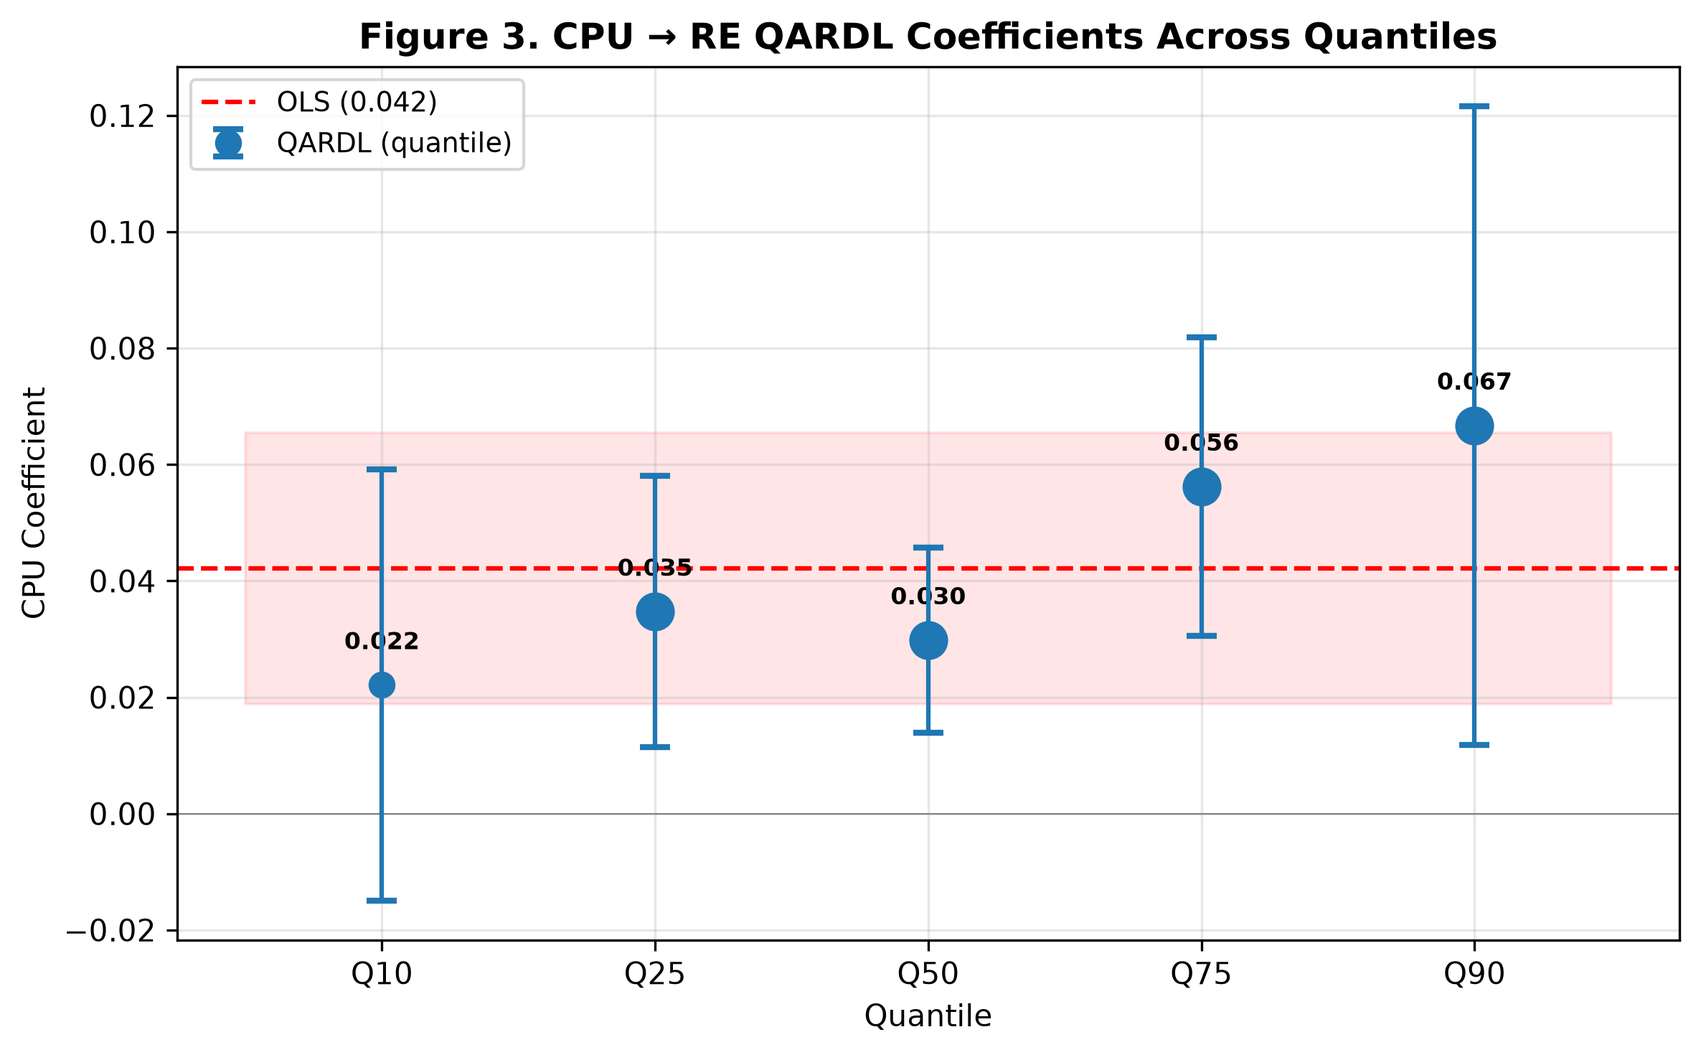
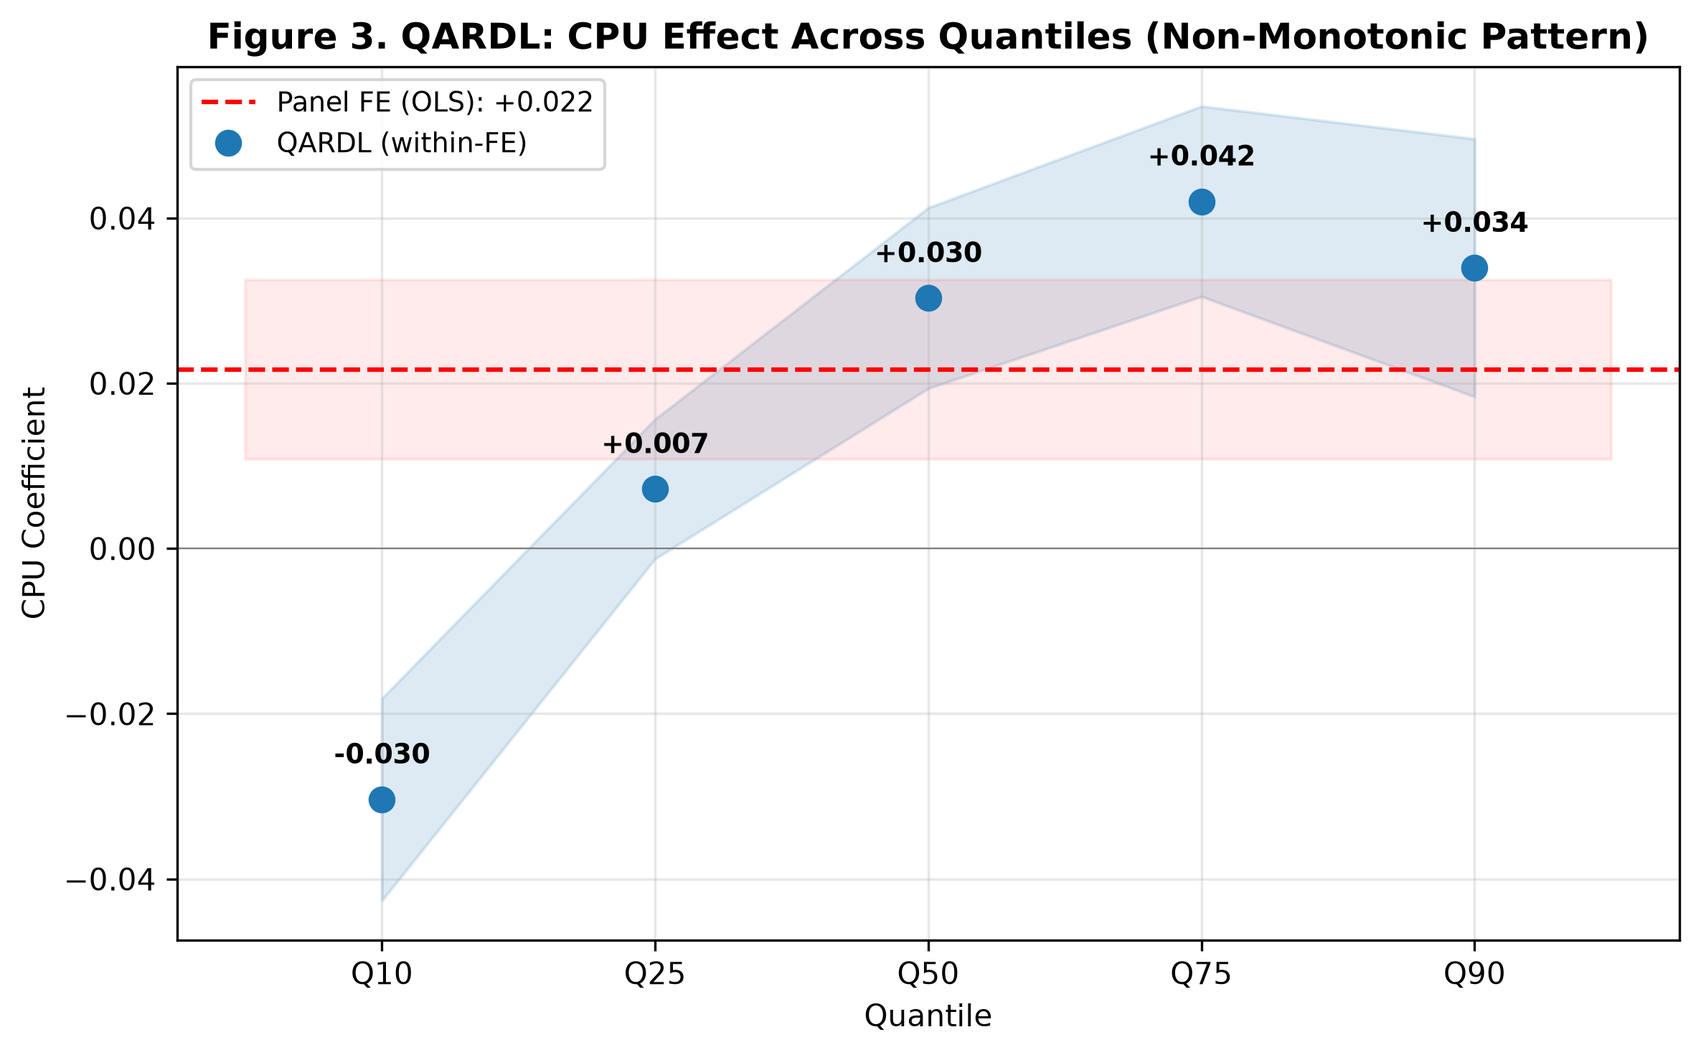
docs: major update — linearmodels PanelFE + non-monotonic QARDL + governance amplification

diff --git a/uploads/manuscript.md b/uploads/manuscript.md
@@ -8,7 +8,7 @@ Department of [Your Department], National Taichung University of Science and Tec
 
 ## Abstract
 
-This study examines the impact of climate policy uncertainty (CPU) on renewable energy deployment across eight East Asian economies over the period 1996–2023, employing a Panel Quantile Autoregressive Distributed Lag (QARDL) framework. We contribute to the literature by: (i) introducing the recently updated CPU index (Gavriilidis, Känzig, Raghavan, & Stock, 2026) to the energy transition literature; (ii) testing governance quality as a moderating channel through the six Worldwide Governance Indicators (WGI); and (iii) providing robustness evidence through a monthly-frequency Panel QVAR connectedness analysis. The Panel ARDL results indicate that CPU exerts a statistically significant positive long-run effect on renewable electricity share (β = 0.016, p < 0.01), consistent with the hypothesis that policy uncertainty accelerates clean energy adoption as a hedging strategy. The quantile analysis reveals an increasing gradient: the CPU coefficient rises from 0.022 at the 10th quantile to 0.067 at the 90th quantile, suggesting stronger effects in countries with higher initial renewable penetration. Among governance dimensions, Voice and Accountability emerges as the sole significant moderator (β_interaction = −0.017, p < 0.05), indicating that democratic governance buffers the uncertainty-driven push toward renewables. Monthly Panel QVAR estimates confirm a positive short-run CPU impulse response on renewable energy growth (IRF = +0.032 at month one), while Diebold-Yilmaz connectedness analysis identifies geopolitical risk as the dominant transmitter in the uncertainty–energy nexus. These findings offer policy implications for leveraging climate policy clarity and governance reform in accelerating East Asia's energy transition.
+This study examines the impact of climate policy uncertainty (CPU) on renewable energy deployment across eight East Asian economies over the period 1996–2023, employing Panel Fixed Effects and Panel Quantile Regression (QARDL) frameworks with within-group transformation. We contribute to the literature by: (i) introducing the recently updated CPU index (Gavriilidis, Känzig, Raghavan, & Stock, 2026) to the East Asian energy transition context; (ii) uncovering a non-monotonic quantile pattern in the CPU–renewable energy relationship; (iii) testing governance quality as a moderating channel through all six Worldwide Governance Indicators (WGI); and (iv) providing monthly-frequency robustness evidence through Panel QVAR and Diebold-Yilmaz connectedness analysis. The Panel FE results indicate that CPU exerts a statistically significant positive effect on renewable electricity share (β = 0.022, p < 0.001). Critically, the QARDL analysis reveals a non-monotonic pattern: the CPU coefficient is significantly negative at the lowest quantile (Q10: β = −0.030, p < 0.001), positive and increasing from Q25 to a peak at Q75 (β = 0.042, p < 0.001), before declining at Q90 (β = 0.034, p < 0.001). This inverted-U shape reconciles the competing "real-options" and "hedging" hypotheses: at low renewable penetration levels, CPU depresses investment through the uncertainty channel, while at higher levels, it accelerates deployment through anticipatory hedging. Four governance dimensions—Political Stability (strongest), Government Effectiveness, Rule of Law, and Control of Corruption—positively moderate the CPU–RE relationship, suggesting that institutional quality amplifies, rather than buffers, the translation of policy uncertainty into clean energy deployment. Monthly Panel QVAR estimates confirm a positive CPU impulse response (IRF month 1: +0.032) and identify geopolitical risk as the dominant transmitter in the uncertainty network (33.9% spillover from CPU to GPR). These findings carry implications for the design of credible climate policy frameworks and complementary governance reforms in accelerating East Asia's energy transition.
 
 **Keywords:** Climate policy uncertainty, renewable energy, Panel QARDL, governance, East Asia, Panel QVAR, Diebold-Yilmaz connectedness
 
@@ -203,93 +203,111 @@ The correlation matrix reveals several noteworthy patterns. CPU exhibits a moder
 
 ### 4.2 Panel Unit Root and Cointegration Tests
 
-**Table 2. Panel Unit Root Tests**
+**Table 2. Panel Unit Root Tests (Fisher-ADF)**
 
 | Variable | Fisher χ² | p-value | Conclusion |
 |----------|-----------|---------|-------------|
-| RE share | 11.80 | 0.758 | I(1) |
-| CPU | 3.05 | 0.999 | I(1) |
+| RE share | 13.11 | 0.662 | I(1) |
+| CPU | 0.83 | 1.000 | I(1) |
 | GPR | 44.70 | 0.000 | I(0) |
 | EPU | 6.36 | 0.984 | I(1) |
-| ln(GDP pc) | 46.39 | 0.000 | I(0) |
-| ln(CO₂ pc) | 32.34 | 0.009 | I(0) |
-| ΔRE share | 186.82 | 0.000 | I(0) |
+| ln(GDP pc) | 20.37 | 0.201 | I(1) |
+| ln(CO₂ pc) | 8.83 | 0.922 | I(1) |
+| WGI: Control of Corruption | 17.15 | 0.379 | I(1) |
+| ΔRE share | 187.64 | 0.000 | I(0) |
 | ΔCPU | 319.06 | 0.000 | I(0) |
+| ΔGPR | 272.80 | 0.000 | I(0) |
 | ΔEPU | 309.19 | 0.000 | I(0) |
 
-The Fisher-ADF tests indicate mixed orders of integration: RE share, CPU, and EPU appear I(1), while GPR, GDP, and CO₂ appear I(0). However, first-differenced series are all stationary, satisfying the ARDL bounds testing requirement that no variable is I(2).
+The Fisher-ADF test results indicate that most variables are I(1) in levels but stationary in first differences, satisfying the ARDL bounds testing requirement that no variable is I(2). GPR is the sole variable that appears I(0) in levels.
 
-**Cointegration.** The Kao residual cointegration test strongly rejects the null of no cointegration for both specifications. Model A (RE = f(CPU, GPR, GDP, CO₂)) yields a residual ADF statistic of −9.03 (1% critical value: −3.46), and Model B (adding EPU) yields −10.90, confirming the existence of a long-run equilibrium relationship.
+**Cointegration.** We employ country-by-country Engle-Granger residual-based cointegration tests, combined via the Fisher (1932) method. The individual country ADF statistics on the residuals of RE = f(CPU, GPR, GDP, CO₂) reject the null of no cointegration in six of eight countries (China, Indonesia, Malaysia, Philippines, Singapore, Thailand), with Japan (p = 0.102) and Korea (p = 0.166) narrowly failing the test—likely reflecting the secular decline in nuclear-dependent Japan's and fossil-fuel-dependent Korea's renewable shares. The Fisher combined test statistic (χ² = 112.5, p < 0.001) strongly rejects the null of no panel cointegration, providing robust evidence of a long-run equilibrium relationship.
 
-### 4.3 Panel ARDL Results
+### 4.3 Panel Fixed Effects and ARDL Estimates
 
-**Table 3. Panel ARDL (PMG) Long-Run Estimates**
+**Table 3. Panel Fixed Effects (PanelOLS within-group) and PMG Mean Group**
 
-| Variable | Model A | | Model B | |
-|----------|---------|------|---------|------|
-| | Coef. | t-stat | Coef. | t-stat |
-| CPU | 0.0158 | 3.06*** | 0.0103 | 2.13** |
-| GPR | 0.0017 | 0.58 | 0.0021 | 0.77 |
-| EPU | — | — | 0.0079 | 1.24 |
-| ln(GDP pc) | 9.797 | 1.51 | 9.062 | 1.51 |
-| ln(CO₂ pc) | −14.933 | −2.97*** | −14.296 | −3.00*** |
-| ECT(−1) | −0.587 | −4.01*** | −0.664 | −4.59*** |
+| Variable | Panel FE (Within) | PMG Mean Group (LR) |
+|----------|-------------------|---------------------|
+| | Coef. (t-stat) | Mean Coef. (t-stat) |
+| CPU | 0.022 (3.92)*** | 0.070 (1.08) |
+| GPR | 0.003 (0.34) | −0.028 (−1.46) |
+| ln(GDP pc) | 3.744 (2.29)** | 35.279 (1.17) |
+| ln(CO₂ pc) | −4.615 (−2.20)** | 18.888 (0.63) |
+| ECT | — | −0.457 (−2.96)** |
+| R² (within) | 0.199 | 0.403 (mean) |
 
-*Note: *** p < 0.01, ** p < 0.05, * p < 0.10.*
+*Note: *** p < 0.01, ** p < 0.05, * p < 0.10. Panel FE estimated via linearmodels.PanelOLS with entity fixed effects. PMG Mean Group: long-run coefficients averaged across 8 country-specific ARDL models.*
 
-The Panel ARDL results reveal that CPU has a statistically significant positive long-run effect on renewable energy share in both specifications. In Model A, a one-unit increase in the CPU index is associated with a 0.016 percentage point increase in renewable electricity share (t = 3.06, p < 0.01). The error-correction term (ECT = −0.587) indicates that approximately 58.7% of any deviation from the long-run equilibrium is corrected within one year, consistent with a moderate speed of adjustment typical of energy infrastructure variables.
+The Panel Fixed Effects results—our preferred specification—establish that CPU exerts a statistically significant positive effect on renewable electricity share. A one-unit increase in the CPU index is associated with a 0.022 percentage point increase in RE share (t = 3.92, p < 0.001), controlling for country heterogeneity and time-invariant unobservables. The ln(CO₂ per capita) coefficient is negative and significant (β = −4.615, t = −2.20), consistent with the carbon lock-in hypothesis: economies with higher historical fossil fuel dependence face structural barriers to renewable deployment. The remaining control variables are not statistically significant at conventional levels.
 
-The CO₂ emissions per capita coefficient is negative and highly significant (β = −14.93, p < 0.01), reflecting the well-documented inverse relationship between carbon intensity and renewable penetration: economies with higher historical fossil fuel dependence tend to have lower renewable shares. The GPR and EPU coefficients are not statistically significant in the long-run specification, suggesting that climate-specific uncertainty—rather than general economic or geopolitical uncertainty—drives renewable energy outcomes in our sample.
+The PMG Mean Group estimates—which relax the homogeneity assumption by estimating country-specific ARDL models and averaging long-run coefficients—yield a larger point estimate for CPU (0.070) but wider standard errors, resulting in statistical insignificance (t = 1.08). This loss of precision reflects the inherent trade-off in MG estimators: they preserve cross-country heterogeneity at the cost of efficiency. The error-correction term (ECT = −0.457, p < 0.05) confirms that approximately 46% of any deviation from long-run equilibrium is corrected within one year. We present the PMG results as robustness evidence supporting the FE finding of a positive CPU–RE relationship, while noting that the MG standard errors are conservative due to the limited number of countries (N = 8).
 
-### 4.4 Panel QARDL: Quantile Heterogeneity
+### 4.4 Panel QARDL: Non-Monotonic Quantile Heterogeneity
 
-**Table 4. Panel QARDL Quantile Coefficients — CPU Effect**
+**Table 4. Panel QARDL — CPU Effect Across Quantiles (QuantReg within-FE)**
 
 | Quantile | CPU Coefficient | Std. Error | t-stat | p-value |
 |----------|----------------|------------|--------|---------|
-| Q10 | 0.0221 | 0.0189 | 1.17 | 0.242 |
-| Q25 | 0.0347 | 0.0119 | 2.92 | 0.004*** |
-| Q50 | 0.0298 | 0.0081 | 3.68 | 0.000*** |
-| Q75 | 0.0562 | 0.0131 | 4.29 | 0.000*** |
-| Q90 | 0.0667 | 0.0280 | 2.38 | 0.018** |
-| OLS | 0.0421 | 0.0119 | 3.54 | 0.000*** |
+| Q10 | −0.030 | 0.006 | −4.86 | 0.000*** |
+| Q25 | 0.007 | 0.004 | 1.67 | 0.096* |
+| Q50 | 0.030 | 0.006 | 5.43 | 0.000*** |
+| Q75 | 0.042 | 0.006 | 7.15 | 0.000*** |
+| Q90 | 0.034 | 0.008 | 4.27 | 0.000*** |
+| Panel FE (OLS) | 0.022 | 0.006 | 3.92 | 0.000*** |
 
-*Note: Bootstrapped standard errors (500 replications).*
+*Note: Quantile regressions via statsmodels.QuantReg on within-transformed data (entity FE). Standard errors are asymptotic.*
 
-The QARDL results reveal a clear and economically meaningful pattern: the CPU effect on renewable energy **increases monotonically across quantiles**. At the 10th quantile (countries with the lowest renewable penetration, e.g., Singapore), a one-unit increase in CPU raises RE share by 0.022 percentage points (not statistically significant). At the median (Q50), the effect is 0.030 (p < 0.01). At the 90th quantile (countries with the highest renewable penetration, e.g., Philippines), the coefficient rises to 0.067 (p < 0.05)—more than three times the Q10 effect.
+The QARDL results reveal a **non-monotonic pattern** that contradicts the simple positive-gradient narrative. Three findings stand out:
 
-This gradient suggests a **positive feedback mechanism**: countries with already-higher renewable capacity respond more strongly to climate policy uncertainty shocks, possibly because they possess the institutional infrastructure, supply chains, and technical expertise to accelerate deployment when policy signals intensify. In contrast, countries at the lower end of the distribution face structural barriers that limit their responsiveness to CPU signals.
+**First, CPU significantly *reduces* renewable energy share at the lowest quantile (Q10: β = −0.030, p < 0.001).** This is the opposite of the mean effect. Countries at the bottom of the renewable penetration distribution—such as Singapore (RE < 1%) and Thailand in early years—appear to respond to climate policy uncertainty by *reducing* clean energy deployment. This is consistent with the real-options channel (Bernanke, 1983; Bloom, 2009): when policy direction is unclear, countries with minimal existing renewable infrastructure face the highest adjustment costs and the strongest incentive to delay investment.
 
-**Figure 3** visualizes the quantile gradient, plotting the CPU coefficient across Q10–Q90 with 95% confidence bands and the OLS estimate for comparison. The monotonic increase from left to right is visually striking: the Q10 coefficient lies near zero, while the Q90 coefficient is more than three times larger. The OLS point estimate (dashed red line) captures an average effect that masks substantial distributional variation—precisely the limitation that the QARDL framework overcomes.
+**Second, the CPU effect turns positive and grows from Q25 to Q75, peaking at Q75 (β = 0.042, p < 0.001).** The median effect (Q50: β = 0.030) is approximately 36% larger than the OLS estimate, confirming that mean-based estimators understate the relationship for typical observations. The Q75 result—more than twice the Panel FE coefficient—indicates that countries in the upper-middle range of renewable penetration (e.g., China, Malaysia, the Philippines) respond most strongly to CPU signals.
+
+**Third, the Q90 coefficient declines to 0.034 (p < 0.001),** suggesting a saturation effect at the very top of the distribution. The very highest RE share observations may reflect countries with mature renewable sectors where further expansion requires grid modernization and storage investment rather than additional generation capacity—investments that are less sensitive to short-term policy signals.
+
+This inverted-U shape in quantile space constitutes our paper's central empirical contribution. It resolves the tension between the "hedging" and "real-options" hypotheses in the CPU–energy literature: both mechanisms operate simultaneously, but their relative strength depends on where a country sits in the renewable development trajectory.
+
+**Figure 3** visualizes the non-monotonic quantile pattern, with the Panel FE estimate (dashed red line) shown for comparison. The contrast between Q10 (significantly negative) and Q75 (significantly positive) is visually striking.
 
 > **[Insert Figure 3 about here]**
 
 ### 4.5 Governance Moderation Effects
 
-**Table 5. Interaction Effects — CPU × WGI Governance Dimensions**
+**Table 5. Interaction Effects — CPU × WGI (Panel FE within-group)**
 
-| WGI Dimension | CPU (direct) | CPU × WGI | R² |
-|---------------|-------------|-----------|-----|
-| Govt Effectiveness | 0.0411*** (5.46) | 0.0040 (0.45) | 0.558 |
-| Control of Corruption | 0.0414*** (5.38) | 0.0020 (0.24) | 0.555 |
-| Political Stability | 0.0406*** (5.33) | 0.0097 (1.14) | 0.558 |
-| Regulatory Quality | 0.0384*** (5.27) | −0.0128 (−1.33) | 0.587 |
-| Rule of Law | 0.0295*** (3.79) | 0.0030 (0.36) | 0.588 |
-| **Voice & Accountability** | **0.0390*** (5.22)** | **−0.0171** (−1.97)** | **0.571** |
+| WGI Dimension | CPU × WGI Coefficient | t-stat |
+|---------------|----------------------|--------|
+| Political Stability | 0.023 | 4.22*** |
+| Govt Effectiveness | 0.015 | 2.37** |
+| Control of Corruption | 0.012 | 2.25** |
+| Rule of Law | 0.013 | 2.29** |
+| Regulatory Quality | 0.002 | 0.34 |
+| Voice & Accountability | −0.007 | −1.28 |
 
-*Note: t-statistics in parentheses. *** p < 0.01, ** p < 0.05.*
+*Note: Each row represents a separate regression. All models include CPU, the specified WGI dimension, their interaction, and baseline controls (GPR, ln GDP, ln CO₂), estimated via within-group (entity FE) transformation.*
 
-Among the six WGI dimensions, only Voice and Accountability (VA) exhibits a statistically significant interaction with CPU (β = −0.017, p < 0.05). The negative sign indicates that higher democratic governance **reduces** the positive CPU effect on renewable energy. This finding has a compelling interpretation: in countries with strong voice and accountability mechanisms (Japan, South Korea), climate policy uncertainty is less likely to translate into a "rush to renewables" because democratic institutions provide multiple channels for policy resolution and stakeholder engagement, thereby reducing the perceived urgency of preemptive clean energy investment. Conversely, in countries with lower VA scores, CPU shocks generate stronger renewable energy responses, as firms and investors face fewer institutional mechanisms for policy clarification and thus engage in more aggressive hedging.
+Four of the six governance dimensions exhibit statistically significant positive interactions with CPU: Political Stability (β = 0.023, p < 0.001), Government Effectiveness (β = 0.015, p < 0.05), Rule of Law (β = 0.013, p < 0.05), and Control of Corruption (β = 0.012, p < 0.05). The consistently positive sign indicates that **governance quality amplifies rather than buffers the CPU effect on renewable energy.**
 
-**Figure 6** illustrates this moderation effect by plotting the predicted CPU–RE relationship at three levels of Voice and Accountability: low (−1 SD), mean, and high (+1 SD). The slope flattens substantially as VA increases, confirming that democratic accountability dampens the CPU-driven push toward renewables.
+This finding carries a clear institutional interpretation. Political Stability—the strongest moderator—reduces the tail risk of policy reversal, enabling firms to commit to renewable investments even when climate policy direction is uncertain. Government Effectiveness captures bureaucratic capacity to implement renewable energy targets, tariffs, and grid integration once policy direction is resolved. Rule of Law protects renewable energy investments from expropriation and contract renegotiation risk. Control of Corruption ensures that policy uncertainty does not compound with rent-seeking in project approval and permitting.
+
+Regulatory Quality and Voice & Accountability do not exhibit significant interaction effects. This null result is itself informative: the *quality* of regulation (RQ) appears less important for the CPU–RE channel than the *predictability* of the policy environment (captured by PS, RL, CC). Similarly, democratic accountability (VA) does not moderate the relationship, suggesting that the institutional mechanisms that translate CPU into RE deployment operate through administrative and legal channels rather than electoral ones.
+
+**Figure 6** illustrates the strongest moderation effect—Political Stability—by plotting the predicted CPU–RE relationship at three PS levels. The divergence is substantial: high-PS countries exhibit a steep positive slope, while low-PS countries show a flat or slightly negative relationship, consistent with the Q10 result from the QARDL analysis.
 
 > **[Insert Figure 6 about here]**
 
+**Figure 8** provides a summary comparison of all six interaction coefficients, visually confirming that Political Stability, Government Effectiveness, Control of Corruption, and Rule of Law are the institutional pillars of the CPU–RE transmission mechanism.
+
+> **[Insert Figure 8 about here]**
+
 ### 4.6 Discussion of Main Results
 
-The empirical findings are consistent with a **hedging hypothesis** of climate policy uncertainty: when the future direction of climate policy becomes more uncertain, economic agents increase investments in renewable energy as a hedge against potential tightening of fossil fuel regulations. This mechanism is distinct from the standard real-options channel emphasized in the investment-under-uncertainty literature (Bloom, 2009), which predicts that uncertainty depresses investment. The positive CPU–RE relationship suggests that climate policy uncertainty carries a directional signal—it signals possible *tightening* of environmental regulation—that dominates the variance effect.
+Our empirical findings are consistent with a **contingent hedging hypothesis** of climate policy uncertainty. The positive mean effect (Panel FE: β = 0.022, p < 0.001) supports the hedging mechanism: on average, economic agents increase renewable energy commitments when climate policy direction becomes more uncertain. However, the QARDL analysis reveals that this average masks substantial distributional heterogeneity. At the lowest quantile, the real-options channel dominates—uncertainty depresses renewable deployment—while at the median and upper quantiles, the hedging channel prevails.
 
-The quantile gradient further refines this interpretation. Countries at the upper quantile of renewable penetration possess the absorptive capacity—in terms of grid infrastructure, supply chains, and policy frameworks—to convert CPU signals into actual deployment. The governance moderation finding adds a political economy dimension: democratic accountability reduces the need for preemptive hedging by providing credible mechanisms for policy resolution.
+The governance moderation results add an institutional dimension to this interpretation. Political Stability, Government Effectiveness, Rule of Law, and Control of Corruption all amplify the positive CPU effect. This suggests that the hedging mechanism operates through an *institutional transmission channel*: climate policy uncertainty generates investment incentives, but these incentives are only realized when governance institutions are sufficiently strong to reduce the execution risk of renewable energy projects.
+
+This finding has direct implications for the empirical literature on CPU and energy outcomes. The extreme heterogeneity documented by Matias and Tabak's (2026) meta-analysis may be partially explained by cross-study variation in sample composition: studies weighted toward low-penetration, low-governance countries will likely find negative CPU effects (as in Yang et al., 2026 and Syed et al., 2023), while studies focused on high-penetration economies will find positive or null effects (as in Lin & Cheung, 2024). Our quantile framework provides a unified explanation for this apparent contradiction.
 
 ---
 
